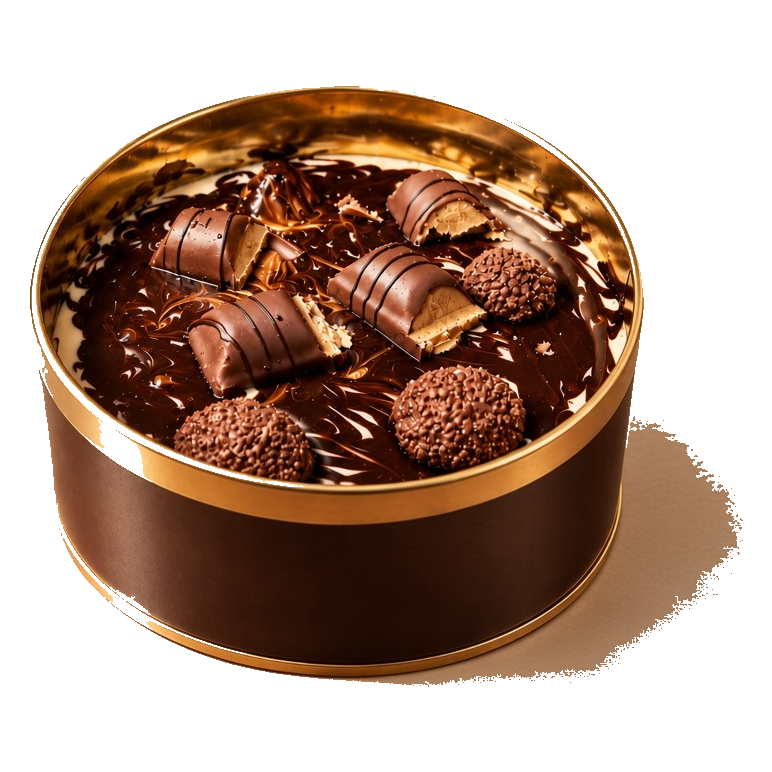
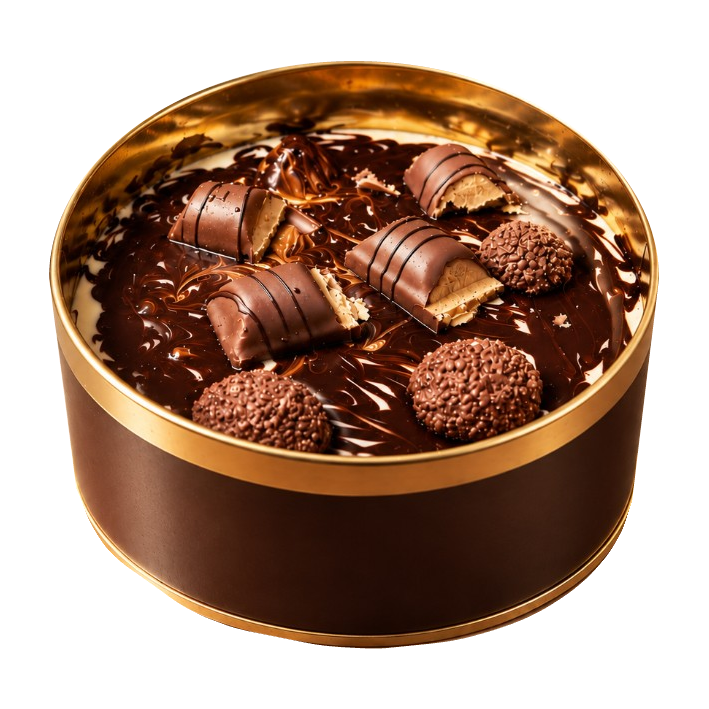
Re-cut the hero image from the original photo and polish cards
The old hero PNG's background removal left holes and jagged edges in the
tin. Cut it from kinder-bueno.jpg by shape instead, using a new script,
and bump the image cache version.

Also add a hero drop shadow, tighten the dish card crops, remove the thin
lines that showed on hover, and make the step cards equal height.

diff --git a/src/styles.css b/src/styles.css
@@ -353,6 +353,10 @@ html.menu-open,html.menu-open body{overflow:hidden}
   height:100%;
   object-fit:contain;
   object-position:center;
+  filter:drop-shadow(22px 34px 32px rgba(44, 27, 19, .34)) drop-shadow(6px 12px 14px rgba(44, 27, 19, .22));
+}
+@media (prefers-reduced-motion: reduce){
+  .hero-visual img{filter:drop-shadow(14px 20px 20px rgba(44, 27, 19, .26))}
 }
 .hero-script{
   display:inline-block;
@@ -480,6 +484,9 @@ html.menu-open,html.menu-open body{overflow:hidden}
   overflow:hidden;
   display:flex;
   flex-direction:column;
+  /* Avoid subpixel seams while the card lifts on hover */
+  transform:translateZ(0);
+  backface-visibility:hidden;
 }
 html.js .dish{
   opacity:0;
@@ -487,44 +494,66 @@ html.js .dish{
   transition:opacity .8s var(--ease), transform .8s var(--ease);
   transition-delay:calc(var(--i, 0) * 120ms);
 }
-html.js .dish.is-in{opacity:1;transform:none}
+html.js .dish.is-in{opacity:1;transform:translateZ(0)}
 html.js .dish.is-in:hover{transform:translateY(-8px);transition-delay:0s}
 .dish.is-flash{outline:2px solid var(--gold);outline-offset:4px}
 .dish-photo{
   position:relative;
   aspect-ratio:5/4;
+  width:100%;
   background:var(--beige);
   overflow:hidden;
+  flex:none;
 }
 .dish-photo img{
-  width:100%;height:100%;
-  object-fit:cover;object-position:center 32%;
+  display:block;
+  width:100%;
+  height:100%;
+  object-fit:cover;
+  object-position:center 68%;
+  transform:scale(1.26);
+  transform-origin:center 78%;
   transition:transform .7s var(--ease);
+  will-change:transform;
 }
-.dish.is-in:hover .dish-photo img{transform:scale(1.05)}
+/* Bueno: zoom in to the same crop as Crunch */
+.dish[data-name="Kinder Bueno"] .dish-photo img{
+  object-position:center 72%;
+  transform:scale(1.26);
+  transform-origin:center 78%;
+}
+.dish.is-in:hover .dish-photo img{transform:scale(1.34)}
+.dish[data-name="Kinder Bueno"].is-in:hover .dish-photo img{transform:scale(1.34)}
 .dish-wave{
   display:block;
   width:104%;
-  height:74px;
-  margin:-74px -2% 0;
+  height:78px;
+  /* Sit over the photo and overlap the body so no cocoa hairline opens on hover */
+  margin:-74px -2% -6px;
   fill:var(--beige);
   position:relative;
-  z-index:1;
+  z-index:2;
+  pointer-events:none;
+  flex:none;
 }
 .dish-body{
   position:relative;
   z-index:1;
   display:flex;align-items:center;justify-content:space-between;gap:16px;
-  padding:6px 20px 58px;
+  padding:10px 20px 58px;
+  margin-top:-2px;
+  background:var(--beige);
 }
 .dish-foot{
   display:block;
   width:104%;
-  height:56px;
-  margin:-56px -2% 0;
+  height:58px;
+  margin:-56px -2% -2px;
   fill:var(--cocoa);
   position:relative;
   z-index:2;
+  pointer-events:none;
+  flex:none;
 }
 .dish-name{
   font-size:clamp(1.7rem,2vw,2.15rem);
@@ -626,6 +655,7 @@ html.js .dish.is-in .dish-add:focus-visible{transform:translateY(-3px);transitio
   position:relative;
   display:flex;
   flex-direction:column;
+  height:100%;
   background:var(--beige);
   color:var(--cocoa);
   overflow:visible;
@@ -665,7 +695,12 @@ html.js .dish.is-in .dish-add:focus-visible{transform:translateY(-3px);transitio
 }
 .step-cap{transform:scaleY(-1);margin-bottom:-1px}
 .step-foot{margin-top:-36px}
-.step-body{padding:4px 16px 42px}
+.step-body{
+  flex:1;
+  display:flex;
+  flex-direction:column;
+  padding:4px 16px 42px;
+}
 .step-num{
   font-family:var(--font-serif);
   font-size:1.6rem;
@@ -902,9 +937,9 @@ html.cart-open,html.cart-open body{overflow:hidden}
   .menu-section,.contact{width:min(1120px, calc(100% - 32px))}
   .menu-section{padding-top:28px;padding-bottom:48px}
   .page-menu .menu-section{padding-top:calc(var(--header-h) + 24px)}
-  .dish-photo{aspect-ratio:3/2}
-  .dish-wave{height:52px;margin-top:-52px}
-  .dish-body{padding:4px 16px 48px}
+  .dish-photo{aspect-ratio:5/4}
+  .dish-wave{height:56px;margin:-52px -2% -6px}
+  .dish-body{padding:8px 16px 48px;margin-top:-2px}
   .dish-add,.dish-qty button{min-height:44px}
   .order{padding:48px 0 56px}
   .order-inner{width:min(1120px, calc(100% - 32px))}
@@ -968,7 +1003,8 @@ html.cart-open,html.cart-open body{overflow:hidden}
 
 @media (hover:none){
   html.js .dish.is-in:hover{transform:none}
-  html.js .dish.is-in:hover .dish-photo img{transform:none}
+  html.js .dish.is-in:hover .dish-photo img{transform:scale(1.26)}
+  html.js .dish[data-name="Kinder Bueno"].is-in:hover .dish-photo img{transform:scale(1.26)}
   .btn:hover,.dish-add:hover{transform:none;box-shadow:none}
 }
 

diff --git a/src/data/site.js b/src/data/site.js
@@ -7,7 +7,7 @@ export const SITE = {
   phoneHref: 'tel:+919160919897',
   whatsapp: '919160919897',
   addressLines: ['Cloud kitchen · Mehdipatnam,', 'Hyderabad'],
-  heroUrl: '/images/hero-cake.png?v=14',
+  heroUrl: '/images/hero-cake.png?v=16',
   aboutUrl: '/images/menu-crunch.png?v=5',
   instagram: null,
 }
